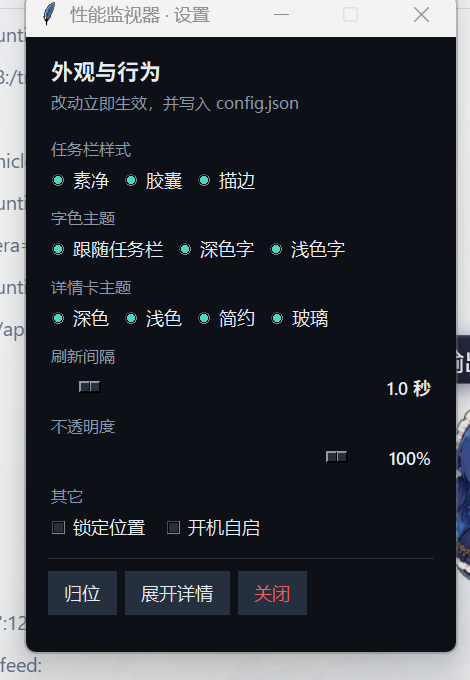
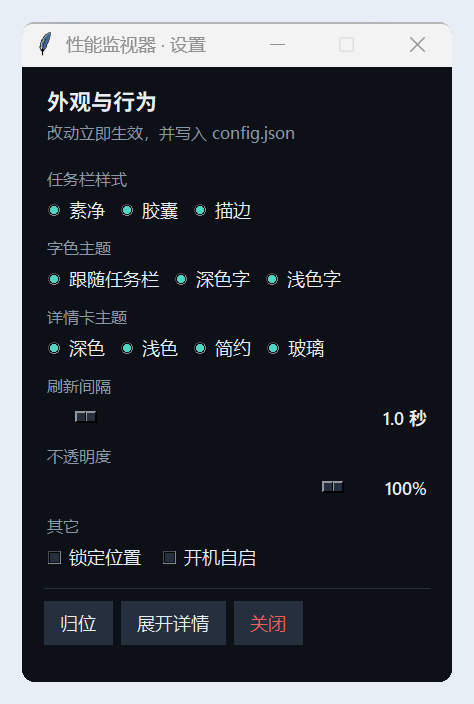
docs: 三张配图改成离线渲染的干净版本，尺寸收小不再糊成大图

diff --git a/README.md b/README.md
@@ -13,7 +13,7 @@
 
 <br>
 
-<img src="docs/images/taskbar.png" width="520" alt="任务栏效果">
+<img src="docs/images/taskbar.png" width="360" alt="任务栏效果">
 
 <sub>贴在托盘左边，背景真透明，看不出是浮窗</sub>
 
@@ -36,7 +36,7 @@
 
 <div align="center">
 
-<img src="docs/images/detail.png" width="430" alt="详情">
+<img src="docs/images/detail.png" width="400" alt="详情">
 
 </div>
 
@@ -53,7 +53,7 @@
 
 <div align="center">
 
-<img src="docs/images/settings.png" width="360" alt="设置">
+<img src="docs/images/settings.png" width="320" alt="设置">
 
 </div>
 
